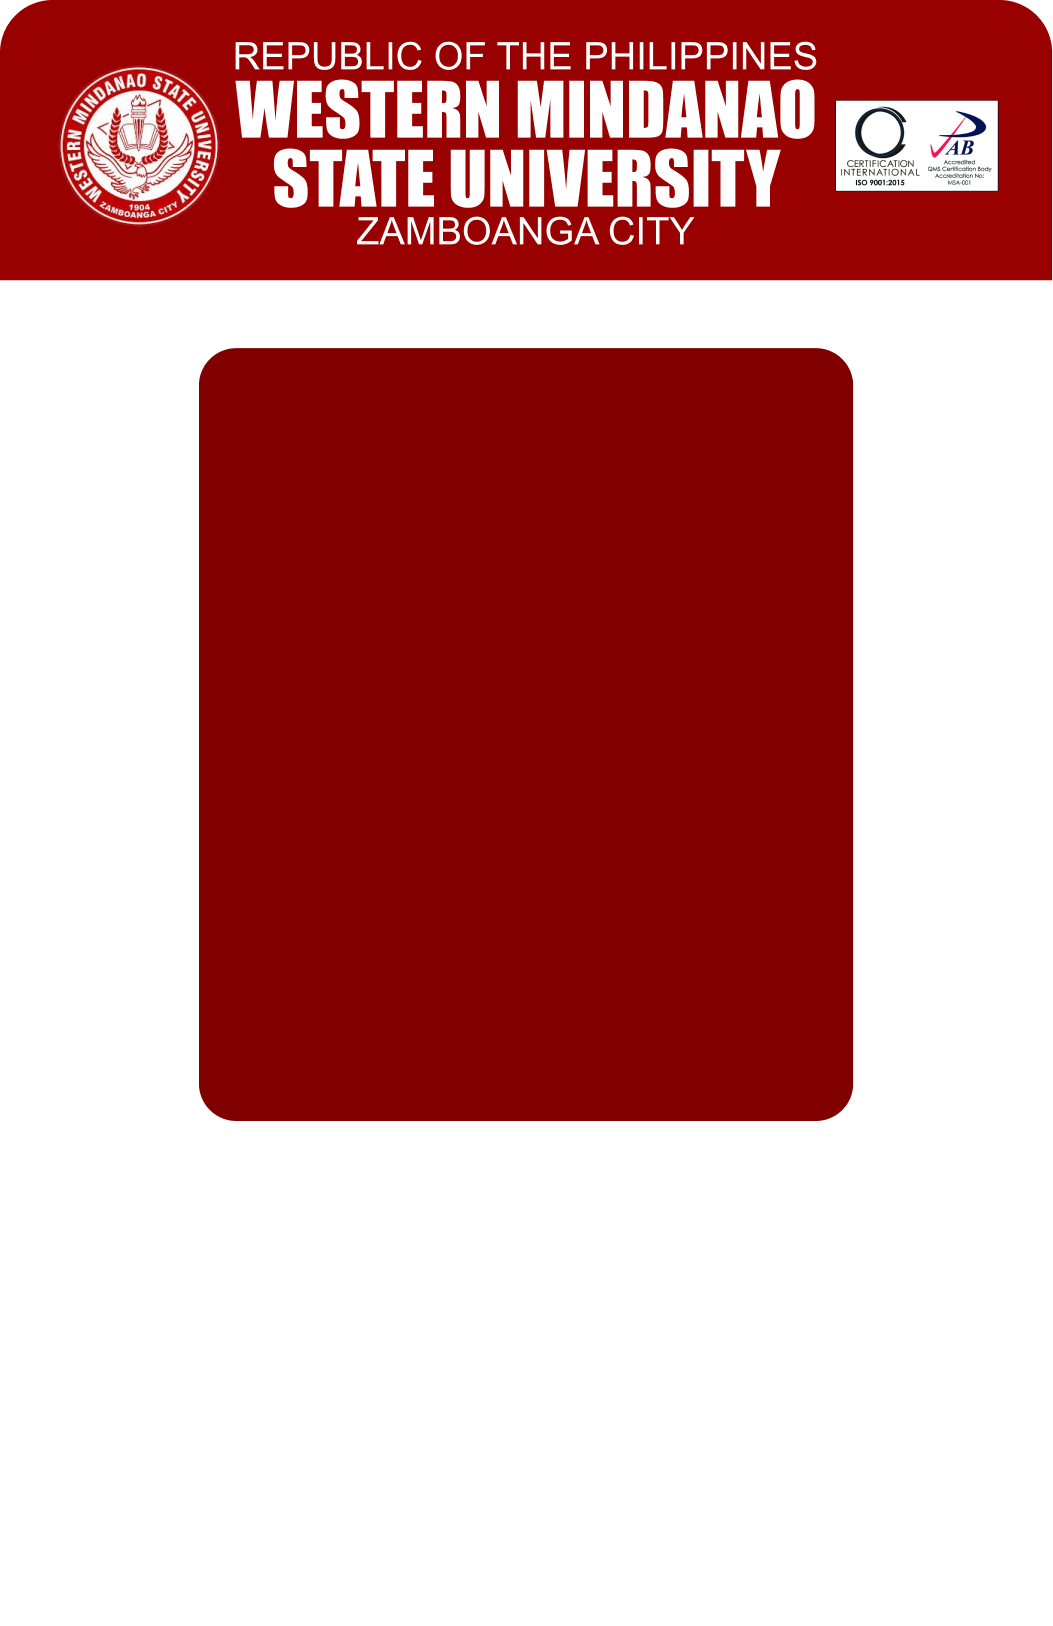
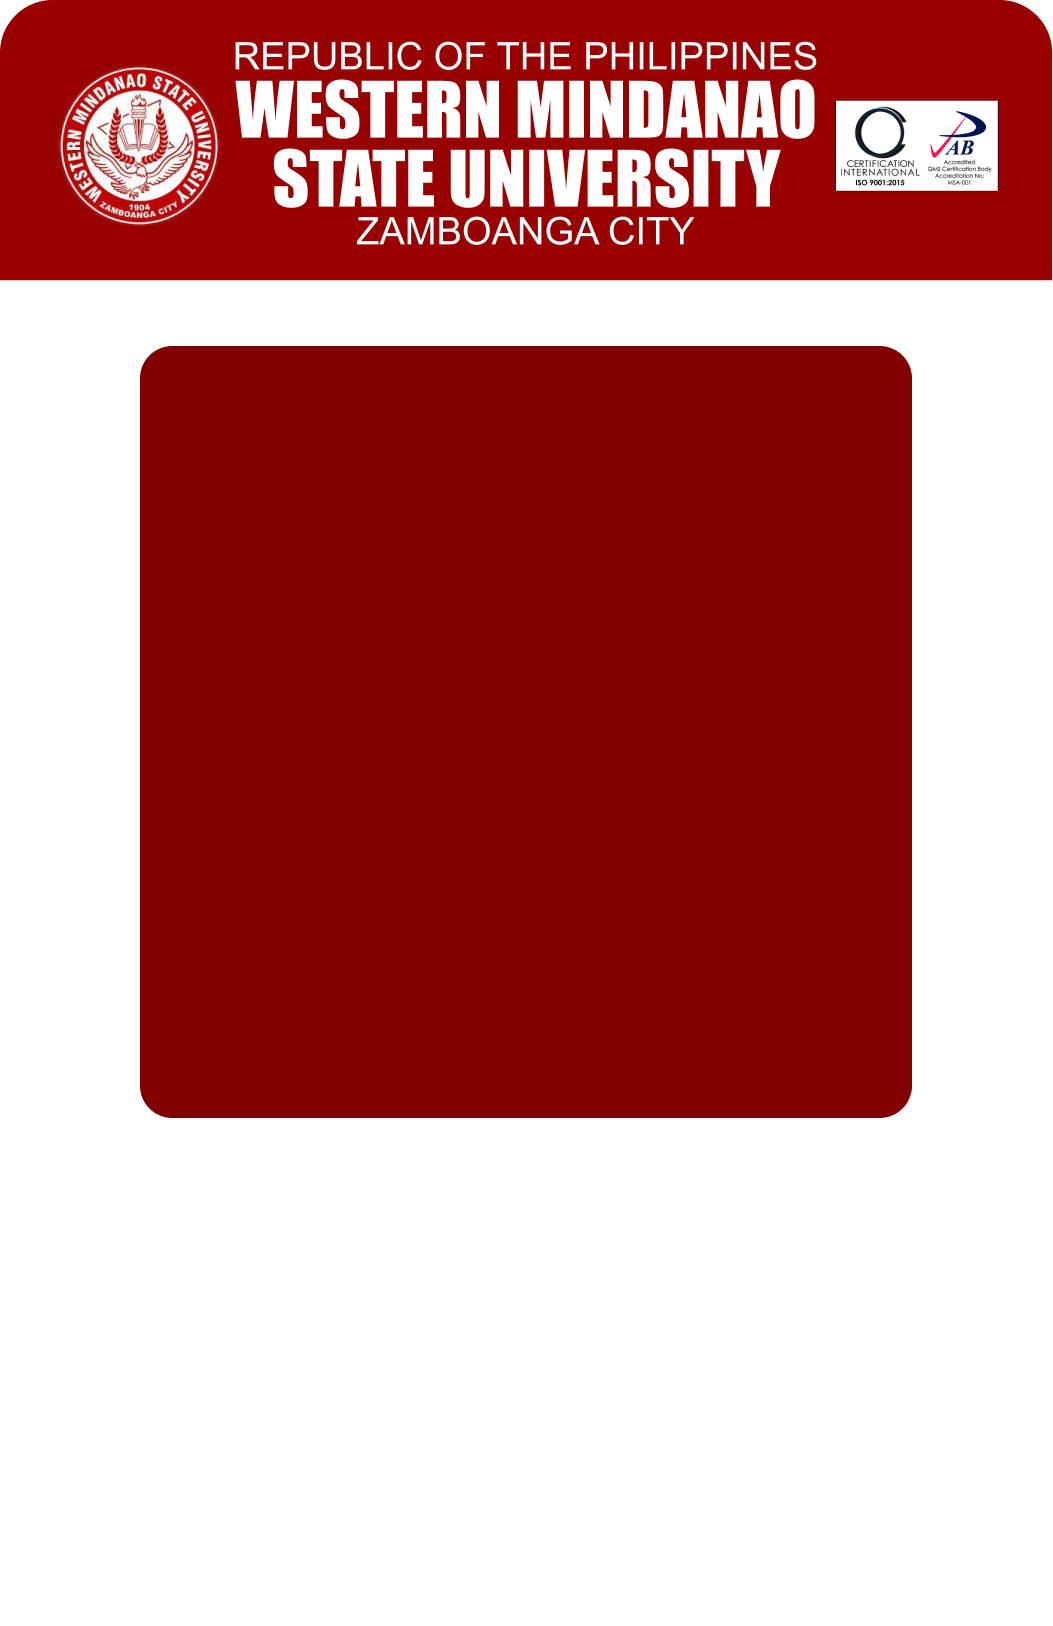
ADDITION of STUDENT PIC

Changed region(s): [[0.1216, 0.2153, 0.2127, 0.7073], [0.7901, 0.2153, 0.8813, 0.7073]]

diff --git a/view/admin/student.php b/view/admin/student.php
@@ -8,10 +8,12 @@
                         </div>
                         <div class="col-md-4 py-3">
                             <div style="position: relative; left: 50%; transform: translateX(-50%); display: block; 
-                                background-image: url('../../assets/id_layouts/STUDENT/STUDENT-ID-FRONT.svg'); 
+                                background-image: url('../../assets/id_layouts/STUDENT/STUDENT-ID-FRONT.png'); 
                                 width:204px; height:316px; background-size: 204px 321px; background-position: center; 
                                 background-repeat: no-repeat; border: 1px solid black; border-radius: 10px">
-                                <p style="position: absolute; left: 45px; top: 215px; color: black; 
+                                <img src="../../assets/id_layouts/sample.png" style="position: absolute;
+                                    left: 0; right: 0; bottom: 97px; max-width: 150px; margin: auto;">
+                                <p style="position: absolute; left: 45px; top: 215px; color: black;
                                     text-align: center; z-index: 1; font-weight: bold; font-size: 10px">
                                     2021-00149</p>
                                 <p style="position: absolute; left: 0; right: 0; top: 230px; color: black; 
